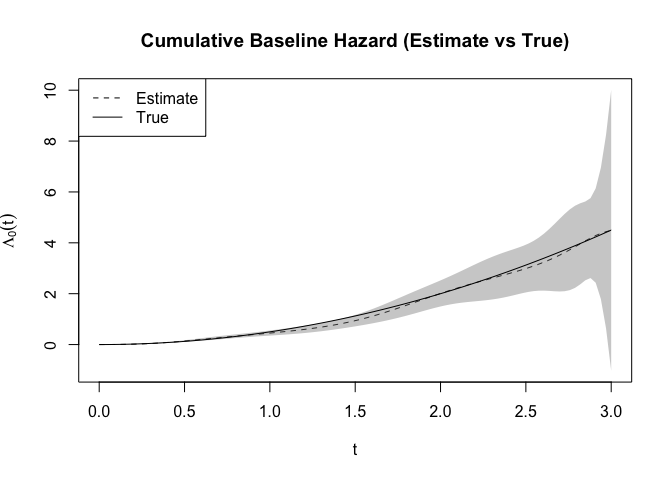
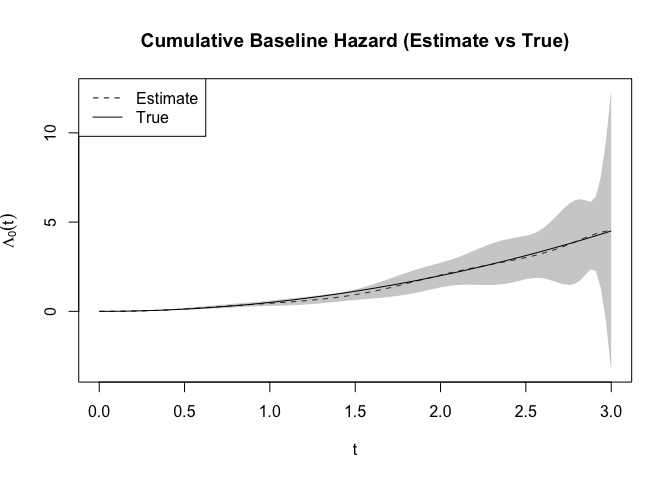
:sparkles: change optim from newton raphson to trust region

diff --git a/README.md b/README.md
@@ -46,19 +46,19 @@ summary(fit)
 #>     degree = 1, boundary = c(0, 3), idx_col = "patient_id")
 #> 
 #>       coef exp(coef)      se     z      p    
-#> X1 0.96244   2.61808 0.04949 19.45 <2e-16 ***
-#> X2 0.98791   2.68562 0.05140 19.22 <2e-16 ***
-#> X3 0.99161   2.69558 0.05260 18.85 <2e-16 ***
-#> X4 0.88978   2.43459 0.05029 17.69 <2e-16 ***
-#> X5 0.99063   2.69292 0.04812 20.59 <2e-16 ***
+#> X1 0.96391   2.62192 0.04955 19.45 <2e-16 ***
+#> X2 0.99021   2.69179 0.05142 19.26 <2e-16 ***
+#> X3 0.99061   2.69288 0.05263 18.82 <2e-16 ***
+#> X4 0.89065   2.43672 0.05043 17.66 <2e-16 ***
+#> X5 0.99236   2.69758 0.04814 20.61 <2e-16 ***
 #> ---
 #> Signif. codes:  0 '***' 0.001 '**' 0.01 '*' 0.05 '.' 0.1 ' ' 1
 #>    exp(coef) exp(-coef) lower .95 upper .95
-#> X1 2.6181    0.3820     2.3760    2.8848   
-#> X2 2.6856    0.3724     2.4283    2.9703   
-#> X3 2.6956    0.3710     2.4316    2.9883   
-#> X4 2.4346    0.4107     2.2061    2.6868   
-#> X5 2.6929    0.3713     2.4506    2.9592
+#> X1 2.6219    0.3814     2.3793    2.8893   
+#> X2 2.6918    0.3715     2.4337    2.9772   
+#> X3 2.6929    0.3713     2.4289    2.9855   
+#> X4 2.4367    0.4104     2.2074    2.6898   
+#> X5 2.6976    0.3707     2.4547    2.9645
 ```
 
 Besides the estimated coefficients, we can also obtain the estimated
